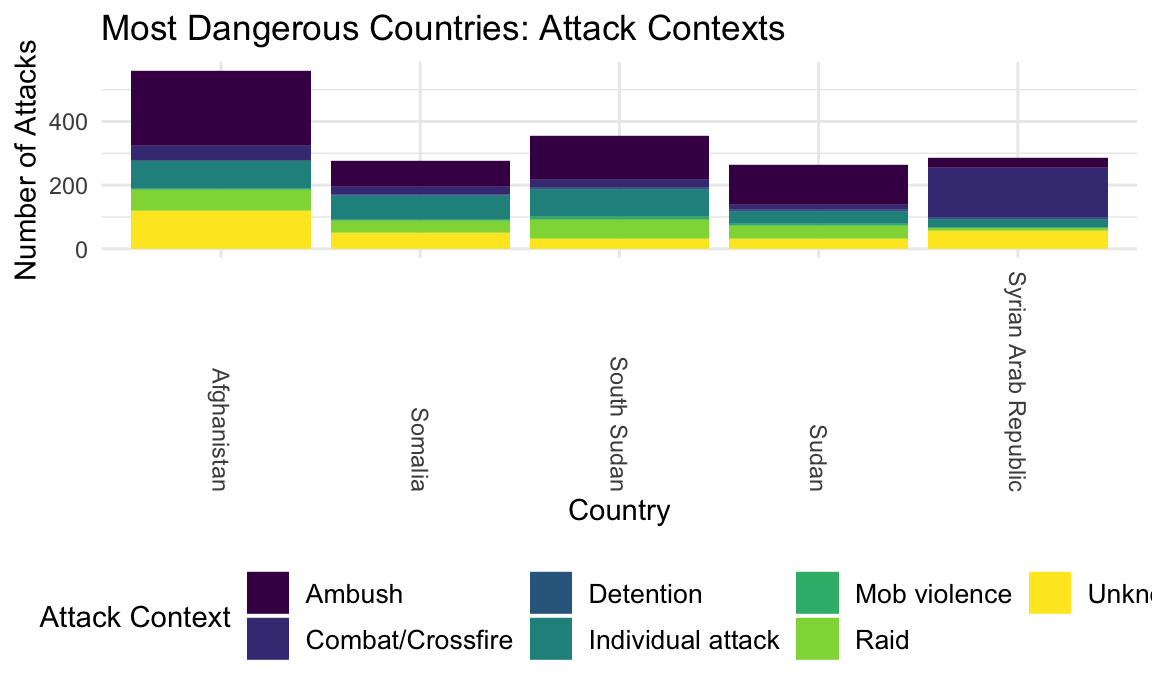
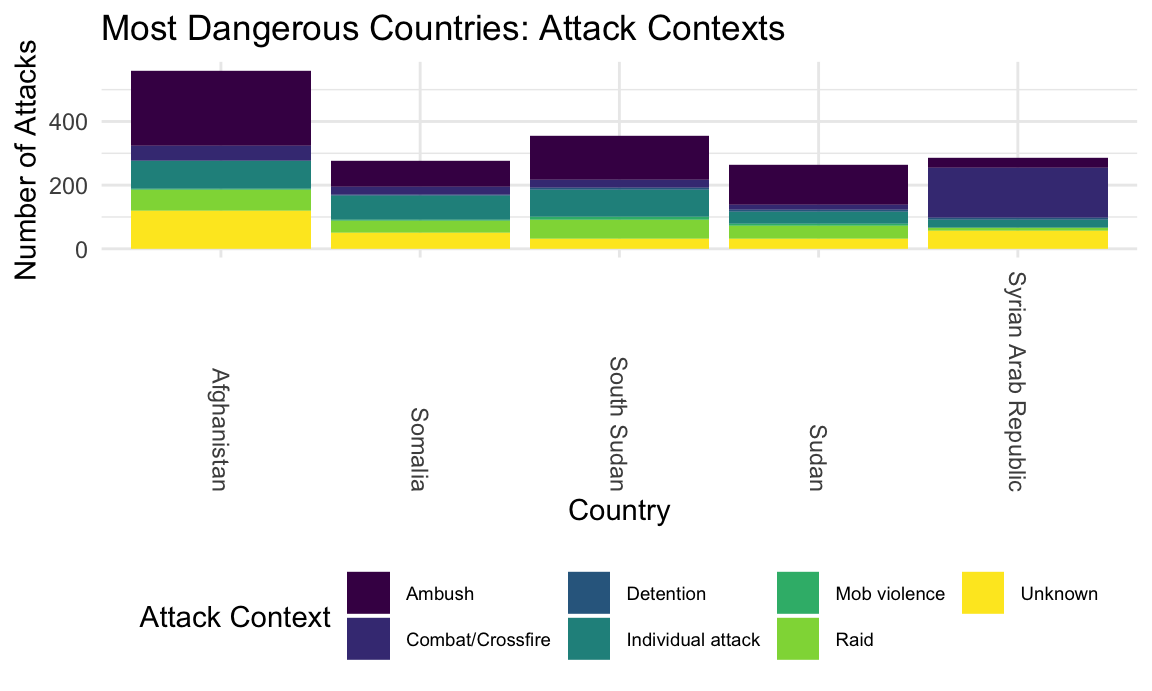
exploratory final?

Changed region(s): [[0.0312, 0.8205, 1.0, 0.9725]]

diff --git a/exploratory_analyses.html b/exploratory_analyses.html
@@ -422,8 +422,8 @@ aidworker_df =
           type = &quot;scatter&quot;, mode = &quot;markers&quot;)
   
 layout(plot_1, title = &quot;Aid Worker Attacks Over Time&quot;, xaxis = list(title = &quot;Year&quot;), yaxis = list(title = &quot;Number of Attack Incidents&quot;))</code></pre>
-<div id="htmlwidget-26f0fbd8093a4649b8cf" style="width:90%;height:345.6px;" class="plotly html-widget"></div>
-<script type="application/json" data-for="htmlwidget-26f0fbd8093a4649b8cf">{"x":{"visdat":{"56bd28e618f8":["function () ","plotlyVisDat"]},"cur_data":"56bd28e618f8","attrs":{"56bd28e618f8":{"x":{},"y":{},"text":{},"mode":"markers","alpha_stroke":1,"sizes":[10,100],"spans":[1,20],"type":"scatter"}},"layout":{"margin":{"b":40,"l":60,"t":25,"r":10},"title":"Aid Worker Attacks Over Time","xaxis":{"domain":[0,1],"automargin":true,"title":"Year"},"yaxis":{"domain":[0,1],"automargin":true,"title":"Number of Attack Incidents"},"hovermode":"closest","showlegend":false},"source":"A","config":{"showSendToCloud":false},"data":[{"x":[1997,1998,1999,2000,2001,2002,2003,2004,2005,2006,2007,2008,2009,2010,2011,2012,2013,2014,2015,2016,2017,2018,2019,2020],"y":[34,25,31,41,28,46,62,63,74,107,124,165,155,130,152,170,265,192,149,163,158,228,277,157],"text":["Total Victims: 73<br />International Staff: 29<br />National Staff: 44","Total Victims: 62<br />International Staff: 21<br />National Staff: 41","Total Victims: 66<br />International Staff: 24<br />National Staff: 42","Total Victims: 87<br />International Staff: 20<br />National Staff: 67","Total Victims: 86<br />International Staff: 26<br />National Staff: 60","Total Victims: 85<br />International Staff: 17<br />National Staff: 68","Total Victims: 142<br />International Staff: 25<br />National Staff: 117","Total Victims: 125<br />International Staff: 24<br />National Staff: 101","Total Victims: 172<br />International Staff: 14<br />National Staff: 158","Total Victims: 240<br />International Staff: 26<br />National Staff: 214","Total Victims: 221<br />International Staff: 35<br />National Staff: 186","Total Victims: 278<br />International Staff: 51<br />National Staff: 227","Total Victims: 295<br />International Staff: 74<br />National Staff: 221","Total Victims: 250<br />International Staff: 41<br />National Staff: 209","Total Victims: 311<br />International Staff: 29<br />National Staff: 282","Total Victims: 277<br />International Staff: 49<br />National Staff: 228","Total Victims: 475<br />International Staff: 60<br />National Staff: 415","Total Victims: 332<br />International Staff: 32<br />National Staff: 300","Total Victims: 289<br />International Staff: 29<br />National Staff: 260","Total Victims: 295<br />International Staff: 43<br />National Staff: 252","Total Victims: 313<br />International Staff: 28<br />National Staff: 285","Total Victims: 408<br />International Staff: 29<br />National Staff: 379","Total Victims: 483<br />International Staff: 27<br />National Staff: 456","Total Victims: 281<br />International Staff: 17<br />National Staff: 264"],"mode":"markers","type":"scatter","marker":{"color":"rgba(31,119,180,1)","line":{"color":"rgba(31,119,180,1)"}},"error_y":{"color":"rgba(31,119,180,1)"},"error_x":{"color":"rgba(31,119,180,1)"},"line":{"color":"rgba(31,119,180,1)"},"xaxis":"x","yaxis":"y","frame":null}],"highlight":{"on":"plotly_click","persistent":false,"dynamic":false,"selectize":false,"opacityDim":0.2,"selected":{"opacity":1},"debounce":0},"shinyEvents":["plotly_hover","plotly_click","plotly_selected","plotly_relayout","plotly_brushed","plotly_brushing","plotly_clickannotation","plotly_doubleclick","plotly_deselect","plotly_afterplot","plotly_sunburstclick"],"base_url":"https://plot.ly"},"evals":[],"jsHooks":[]}</script>
+<div id="htmlwidget-3b888ebe7a2dbbaaacc7" style="width:90%;height:345.6px;" class="plotly html-widget"></div>
+<script type="application/json" data-for="htmlwidget-3b888ebe7a2dbbaaacc7">{"x":{"visdat":{"5d415790fb59":["function () ","plotlyVisDat"]},"cur_data":"5d415790fb59","attrs":{"5d415790fb59":{"x":{},"y":{},"text":{},"mode":"markers","alpha_stroke":1,"sizes":[10,100],"spans":[1,20],"type":"scatter"}},"layout":{"margin":{"b":40,"l":60,"t":25,"r":10},"title":"Aid Worker Attacks Over Time","xaxis":{"domain":[0,1],"automargin":true,"title":"Year"},"yaxis":{"domain":[0,1],"automargin":true,"title":"Number of Attack Incidents"},"hovermode":"closest","showlegend":false},"source":"A","config":{"showSendToCloud":false},"data":[{"x":[1997,1998,1999,2000,2001,2002,2003,2004,2005,2006,2007,2008,2009,2010,2011,2012,2013,2014,2015,2016,2017,2018,2019,2020],"y":[34,25,31,41,28,46,62,63,74,107,124,165,155,130,152,170,265,192,149,163,158,228,277,157],"text":["Total Victims: 73<br />International Staff: 29<br />National Staff: 44","Total Victims: 62<br />International Staff: 21<br />National Staff: 41","Total Victims: 66<br />International Staff: 24<br />National Staff: 42","Total Victims: 87<br />International Staff: 20<br />National Staff: 67","Total Victims: 86<br />International Staff: 26<br />National Staff: 60","Total Victims: 85<br />International Staff: 17<br />National Staff: 68","Total Victims: 142<br />International Staff: 25<br />National Staff: 117","Total Victims: 125<br />International Staff: 24<br />National Staff: 101","Total Victims: 172<br />International Staff: 14<br />National Staff: 158","Total Victims: 240<br />International Staff: 26<br />National Staff: 214","Total Victims: 221<br />International Staff: 35<br />National Staff: 186","Total Victims: 278<br />International Staff: 51<br />National Staff: 227","Total Victims: 295<br />International Staff: 74<br />National Staff: 221","Total Victims: 250<br />International Staff: 41<br />National Staff: 209","Total Victims: 311<br />International Staff: 29<br />National Staff: 282","Total Victims: 277<br />International Staff: 49<br />National Staff: 228","Total Victims: 475<br />International Staff: 60<br />National Staff: 415","Total Victims: 332<br />International Staff: 32<br />National Staff: 300","Total Victims: 289<br />International Staff: 29<br />National Staff: 260","Total Victims: 295<br />International Staff: 43<br />National Staff: 252","Total Victims: 313<br />International Staff: 28<br />National Staff: 285","Total Victims: 408<br />International Staff: 29<br />National Staff: 379","Total Victims: 483<br />International Staff: 27<br />National Staff: 456","Total Victims: 281<br />International Staff: 17<br />National Staff: 264"],"mode":"markers","type":"scatter","marker":{"color":"rgba(31,119,180,1)","line":{"color":"rgba(31,119,180,1)"}},"error_y":{"color":"rgba(31,119,180,1)"},"error_x":{"color":"rgba(31,119,180,1)"},"line":{"color":"rgba(31,119,180,1)"},"xaxis":"x","yaxis":"y","frame":null}],"highlight":{"on":"plotly_click","persistent":false,"dynamic":false,"selectize":false,"opacityDim":0.2,"selected":{"opacity":1},"debounce":0},"shinyEvents":["plotly_hover","plotly_click","plotly_selected","plotly_relayout","plotly_brushed","plotly_brushing","plotly_clickannotation","plotly_doubleclick","plotly_deselect","plotly_afterplot","plotly_sunburstclick"],"base_url":"https://plot.ly"},"evals":[],"jsHooks":[]}</script>
 <p>This rise in aid worker attacks is disproportionately affecting national staff. The next two plots show this increased violence toward national staff over time. Notably, the percentage of total victims who are national staff is rising, while the proportion of international staff victims has decreased.</p>
 <pre class="r"><code>aidworker_df %&gt;% 
   drop_na(year) %&gt;% 
@@ -498,8 +498,8 @@ layout(plot_2,
        title = &quot;Top 50 Most Dangerous Countries for Aid Workers&quot;,
        xaxis = NULL,
        yaxis = list(title = &quot;Total Victims&quot;))</code></pre>
-<div id="htmlwidget-88a5562508eaab5c2e73" style="width:90%;height:345.6px;" class="plotly html-widget"></div>
-<script type="application/json" data-for="htmlwidget-88a5562508eaab5c2e73">{"x":{"visdat":{"56bd6905d542":["function () ","plotlyVisDat"]},"cur_data":"56bd6905d542","attrs":{"56bd6905d542":{"x":{},"y":{},"text":{},"mode":"markers","alpha_stroke":1,"sizes":[10,100],"spans":[1,20],"type":"scatter"}},"layout":{"margin":{"b":100,"l":25,"t":50,"r":50,"pad":0},"title":"Top 50 Most Dangerous Countries for Aid Workers","yaxis":{"domain":[0,1],"automargin":true,"title":"Total Victims"},"xaxis":{"domain":[0,1],"automargin":true,"title":"country","type":"category","categoryorder":"array","categoryarray":["Azerbaijan","Congo","Eritrea","Madagascar","Mauritania","Thailand","Papua New Guinea","El Salvador","Guatemala","Turkey","Mozambique","Cote D'Ivoire","Guinea","Mexico","Senegal","Tanzania","Kosovo","Algeria","Myanmar","Colombia","Sierra Leone","Malawi","Rwanda","Jordan","Liberia","Burkina Faso","Bangladesh","Philippines","Tajikistan","Indonesia","Niger","Libyan Arab Jamahiriya","Cameroon","Haiti","Burundi","Chechnya","Chad","Angola","Ethiopia","Uganda","Occupied Palestinian Territories","Kenya","Sri Lanka","Mali","Nigeria","Yemen","Iraq","Central African Republic","Pakistan","DR Congo","Syrian Arab Republic","Sudan","Somalia","South Sudan","Afghanistan"]},"hovermode":"closest","showlegend":false},"source":"A","config":{"showSendToCloud":false},"data":[{"x":["Afghanistan","Algeria","Angola","Azerbaijan","Bangladesh","Burkina Faso","Burundi","Cameroon","Central African Republic","Chad","Chechnya","Colombia","Congo","Cote D'Ivoire","DR Congo","El Salvador","Eritrea","Ethiopia","Guatemala","Guinea","Haiti","Indonesia","Iraq","Jordan","Kenya","Kosovo","Liberia","Libyan Arab Jamahiriya","Madagascar","Malawi","Mali","Mauritania","Mexico","Mozambique","Myanmar","Niger","Nigeria","Occupied Palestinian Territories","Pakistan","Papua New Guinea","Philippines","Rwanda","Senegal","Sierra Leone","Somalia","South Sudan","Sri Lanka","Sudan","Syrian Arab Republic","Tajikistan","Tanzania","Thailand","Turkey","Uganda","Yemen"],"y":[1259,12,53,5,19,16,44,36,165,49,44,13,5,9,327,7,5,53,7,9,39,30,146,15,74,10,15,35,5,14,106,5,9,8,12,34,132,62,248,6,23,14,9,13,515,581,89,487,469,24,9,5,7,56,140],"text":["Total Victims: 1259<br />Rank: 1<br />International Staff: 131<br />National Staff: 1128","Total Victims: 12<br />Rank: 37<br />International Staff: 5<br />National Staff: 7","Total Victims: 53<br />Rank: 17<br />International Staff: 3<br />National Staff: 50","Total Victims: 5<br />Rank: 50<br />International Staff: 0<br />National Staff: 5","Total Victims: 19<br />Rank: 29<br />International Staff: 4<br />National Staff: 15","Total Victims: 16<br />Rank: 30<br />International Staff: 2<br />National Staff: 14","Total Victims: 44<br />Rank: 20<br />International Staff: 13<br />National Staff: 31","Total Victims: 36<br />Rank: 23<br />International Staff: 5<br />National Staff: 31","Total Victims: 165<br />Rank: 8<br />International Staff: 16<br />National Staff: 149","Total Victims: 49<br />Rank: 19<br />International Staff: 12<br />National Staff: 37","Total Victims: 44<br />Rank: 20<br />International Staff: 24<br />National Staff: 20","Total Victims: 13<br />Rank: 35<br />International Staff: 4<br />National Staff: 9","Total Victims: 5<br />Rank: 50<br />International Staff: 1<br />National Staff: 4","Total Victims: 9<br />Rank: 40<br />International Staff: 1<br />National Staff: 8","Total Victims: 327<br />Rank: 6<br />International Staff: 26<br />National Staff: 301","Total Victims: 7<br />Rank: 46<br />International Staff: 1<br />National Staff: 6","Total Victims: 5<br />Rank: 50<br />International Staff: 2<br />National Staff: 3","Total Victims: 53<br />Rank: 17<br />International Staff: 14<br />National Staff: 39","Total Victims: 7<br />Rank: 46<br />International Staff: 1<br />National Staff: 6","Total Victims: 9<br />Rank: 40<br />International Staff: 2<br />National Staff: 7","Total Victims: 39<br />Rank: 22<br />International Staff: 12<br />National Staff: 27","Total Victims: 30<br />Rank: 26<br />International Staff: 7<br />National Staff: 23","Total Victims: 146<br />Rank: 9<br />International Staff: 34<br />National Staff: 112","Total Victims: 15<br />Rank: 31<br />International Staff: 2<br />National Staff: 13","Total Victims: 74<br />Rank: 14<br />International Staff: 23<br />National Staff: 51","Total Victims: 10<br />Rank: 39<br />International Staff: 1<br />National Staff: 9","Total Victims: 15<br />Rank: 31<br />International Staff: 8<br />National Staff: 7","Total Victims: 35<br />Rank: 24<br />International Staff: 23<br />National Staff: 12","Total Victims: 5<br />Rank: 50<br />International Staff: 1<br />National Staff: 4","Total Victims: 14<br />Rank: 33<br />International Staff: 0<br />National Staff: 14","Total Victims: 106<br />Rank: 12<br />International Staff: 17<br />National Staff: 89","Total Victims: 5<br />Rank: 50<br />International Staff: 4<br />National Staff: 1","Total Victims: 9<br />Rank: 40<br />International Staff: 0<br />National Staff: 9","Total Victims: 8<br />Rank: 45<br />International Staff: 0<br />National Staff: 8","Total Victims: 12<br />Rank: 37<br />International Staff: 0<br />National Staff: 12","Total Victims: 34<br />Rank: 25<br />International Staff: 11<br />National Staff: 23","Total Victims: 132<br />Rank: 11<br />International Staff: 5<br />National Staff: 127","Total Victims: 62<br />Rank: 15<br />International Staff: 3<br />National Staff: 59","Total Victims: 248<br />Rank: 7<br />International Staff: 21<br />National Staff: 227","Total Victims: 6<br />Rank: 49<br />International Staff: 1<br />National Staff: 5","Total Victims: 23<br />Rank: 28<br />International Staff: 3<br />National Staff: 20","Total Victims: 14<br />Rank: 33<br />International Staff: 5<br />National Staff: 9","Total Victims: 9<br />Rank: 40<br />International Staff: 2<br />National Staff: 7","Total Victims: 13<br />Rank: 35<br />International Staff: 3<br />National Staff: 10","Total Victims: 515<br />Rank: 3<br />International Staff: 90<br />National Staff: 425","Total Victims: 581<br />Rank: 2<br />International Staff: 65<br />National Staff: 516","Total Victims: 89<br />Rank: 13<br />International Staff: 2<br />National Staff: 87","Total Victims: 487<br />Rank: 4<br />International Staff: 54<br />National Staff: 433","Total Victims: 469<br />Rank: 5<br />International Staff: 29<br />National Staff: 440","Total Victims: 24<br />Rank: 27<br />International Staff: 11<br />National Staff: 13","Total Victims: 9<br />Rank: 40<br />International Staff: 2<br />National Staff: 7","Total Victims: 5<br />Rank: 50<br />International Staff: 0<br />National Staff: 5","Total Victims: 7<br />Rank: 46<br />International Staff: 1<br />National Staff: 6","Total Victims: 56<br />Rank: 16<br />International Staff: 6<br />National Staff: 50","Total Victims: 140<br />Rank: 10<br />International Staff: 35<br />National Staff: 105"],"mode":"markers","type":"scatter","marker":{"color":"rgba(31,119,180,1)","line":{"color":"rgba(31,119,180,1)"}},"error_y":{"color":"rgba(31,119,180,1)"},"error_x":{"color":"rgba(31,119,180,1)"},"line":{"color":"rgba(31,119,180,1)"},"xaxis":"x","yaxis":"y","frame":null}],"highlight":{"on":"plotly_click","persistent":false,"dynamic":false,"selectize":false,"opacityDim":0.2,"selected":{"opacity":1},"debounce":0},"shinyEvents":["plotly_hover","plotly_click","plotly_selected","plotly_relayout","plotly_brushed","plotly_brushing","plotly_clickannotation","plotly_doubleclick","plotly_deselect","plotly_afterplot","plotly_sunburstclick"],"base_url":"https://plot.ly"},"evals":[],"jsHooks":[]}</script>
+<div id="htmlwidget-3383d8ee8246689cbe3b" style="width:90%;height:345.6px;" class="plotly html-widget"></div>
+<script type="application/json" data-for="htmlwidget-3383d8ee8246689cbe3b">{"x":{"visdat":{"5d4131a7f5d4":["function () ","plotlyVisDat"]},"cur_data":"5d4131a7f5d4","attrs":{"5d4131a7f5d4":{"x":{},"y":{},"text":{},"mode":"markers","alpha_stroke":1,"sizes":[10,100],"spans":[1,20],"type":"scatter"}},"layout":{"margin":{"b":100,"l":25,"t":50,"r":50,"pad":0},"title":"Top 50 Most Dangerous Countries for Aid Workers","yaxis":{"domain":[0,1],"automargin":true,"title":"Total Victims"},"xaxis":{"domain":[0,1],"automargin":true,"title":"country","type":"category","categoryorder":"array","categoryarray":["Azerbaijan","Congo","Eritrea","Madagascar","Mauritania","Thailand","Papua New Guinea","El Salvador","Guatemala","Turkey","Mozambique","Cote D'Ivoire","Guinea","Mexico","Senegal","Tanzania","Kosovo","Algeria","Myanmar","Colombia","Sierra Leone","Malawi","Rwanda","Jordan","Liberia","Burkina Faso","Bangladesh","Philippines","Tajikistan","Indonesia","Niger","Libyan Arab Jamahiriya","Cameroon","Haiti","Burundi","Chechnya","Chad","Angola","Ethiopia","Uganda","Occupied Palestinian Territories","Kenya","Sri Lanka","Mali","Nigeria","Yemen","Iraq","Central African Republic","Pakistan","DR Congo","Syrian Arab Republic","Sudan","Somalia","South Sudan","Afghanistan"]},"hovermode":"closest","showlegend":false},"source":"A","config":{"showSendToCloud":false},"data":[{"x":["Afghanistan","Algeria","Angola","Azerbaijan","Bangladesh","Burkina Faso","Burundi","Cameroon","Central African Republic","Chad","Chechnya","Colombia","Congo","Cote D'Ivoire","DR Congo","El Salvador","Eritrea","Ethiopia","Guatemala","Guinea","Haiti","Indonesia","Iraq","Jordan","Kenya","Kosovo","Liberia","Libyan Arab Jamahiriya","Madagascar","Malawi","Mali","Mauritania","Mexico","Mozambique","Myanmar","Niger","Nigeria","Occupied Palestinian Territories","Pakistan","Papua New Guinea","Philippines","Rwanda","Senegal","Sierra Leone","Somalia","South Sudan","Sri Lanka","Sudan","Syrian Arab Republic","Tajikistan","Tanzania","Thailand","Turkey","Uganda","Yemen"],"y":[1259,12,53,5,19,16,44,36,165,49,44,13,5,9,327,7,5,53,7,9,39,30,146,15,74,10,15,35,5,14,106,5,9,8,12,34,132,62,248,6,23,14,9,13,515,581,89,487,469,24,9,5,7,56,140],"text":["Total Victims: 1259<br />Rank: 1<br />International Staff: 131<br />National Staff: 1128","Total Victims: 12<br />Rank: 37<br />International Staff: 5<br />National Staff: 7","Total Victims: 53<br />Rank: 17<br />International Staff: 3<br />National Staff: 50","Total Victims: 5<br />Rank: 50<br />International Staff: 0<br />National Staff: 5","Total Victims: 19<br />Rank: 29<br />International Staff: 4<br />National Staff: 15","Total Victims: 16<br />Rank: 30<br />International Staff: 2<br />National Staff: 14","Total Victims: 44<br />Rank: 20<br />International Staff: 13<br />National Staff: 31","Total Victims: 36<br />Rank: 23<br />International Staff: 5<br />National Staff: 31","Total Victims: 165<br />Rank: 8<br />International Staff: 16<br />National Staff: 149","Total Victims: 49<br />Rank: 19<br />International Staff: 12<br />National Staff: 37","Total Victims: 44<br />Rank: 20<br />International Staff: 24<br />National Staff: 20","Total Victims: 13<br />Rank: 35<br />International Staff: 4<br />National Staff: 9","Total Victims: 5<br />Rank: 50<br />International Staff: 1<br />National Staff: 4","Total Victims: 9<br />Rank: 40<br />International Staff: 1<br />National Staff: 8","Total Victims: 327<br />Rank: 6<br />International Staff: 26<br />National Staff: 301","Total Victims: 7<br />Rank: 46<br />International Staff: 1<br />National Staff: 6","Total Victims: 5<br />Rank: 50<br />International Staff: 2<br />National Staff: 3","Total Victims: 53<br />Rank: 17<br />International Staff: 14<br />National Staff: 39","Total Victims: 7<br />Rank: 46<br />International Staff: 1<br />National Staff: 6","Total Victims: 9<br />Rank: 40<br />International Staff: 2<br />National Staff: 7","Total Victims: 39<br />Rank: 22<br />International Staff: 12<br />National Staff: 27","Total Victims: 30<br />Rank: 26<br />International Staff: 7<br />National Staff: 23","Total Victims: 146<br />Rank: 9<br />International Staff: 34<br />National Staff: 112","Total Victims: 15<br />Rank: 31<br />International Staff: 2<br />National Staff: 13","Total Victims: 74<br />Rank: 14<br />International Staff: 23<br />National Staff: 51","Total Victims: 10<br />Rank: 39<br />International Staff: 1<br />National Staff: 9","Total Victims: 15<br />Rank: 31<br />International Staff: 8<br />National Staff: 7","Total Victims: 35<br />Rank: 24<br />International Staff: 23<br />National Staff: 12","Total Victims: 5<br />Rank: 50<br />International Staff: 1<br />National Staff: 4","Total Victims: 14<br />Rank: 33<br />International Staff: 0<br />National Staff: 14","Total Victims: 106<br />Rank: 12<br />International Staff: 17<br />National Staff: 89","Total Victims: 5<br />Rank: 50<br />International Staff: 4<br />National Staff: 1","Total Victims: 9<br />Rank: 40<br />International Staff: 0<br />National Staff: 9","Total Victims: 8<br />Rank: 45<br />International Staff: 0<br />National Staff: 8","Total Victims: 12<br />Rank: 37<br />International Staff: 0<br />National Staff: 12","Total Victims: 34<br />Rank: 25<br />International Staff: 11<br />National Staff: 23","Total Victims: 132<br />Rank: 11<br />International Staff: 5<br />National Staff: 127","Total Victims: 62<br />Rank: 15<br />International Staff: 3<br />National Staff: 59","Total Victims: 248<br />Rank: 7<br />International Staff: 21<br />National Staff: 227","Total Victims: 6<br />Rank: 49<br />International Staff: 1<br />National Staff: 5","Total Victims: 23<br />Rank: 28<br />International Staff: 3<br />National Staff: 20","Total Victims: 14<br />Rank: 33<br />International Staff: 5<br />National Staff: 9","Total Victims: 9<br />Rank: 40<br />International Staff: 2<br />National Staff: 7","Total Victims: 13<br />Rank: 35<br />International Staff: 3<br />National Staff: 10","Total Victims: 515<br />Rank: 3<br />International Staff: 90<br />National Staff: 425","Total Victims: 581<br />Rank: 2<br />International Staff: 65<br />National Staff: 516","Total Victims: 89<br />Rank: 13<br />International Staff: 2<br />National Staff: 87","Total Victims: 487<br />Rank: 4<br />International Staff: 54<br />National Staff: 433","Total Victims: 469<br />Rank: 5<br />International Staff: 29<br />National Staff: 440","Total Victims: 24<br />Rank: 27<br />International Staff: 11<br />National Staff: 13","Total Victims: 9<br />Rank: 40<br />International Staff: 2<br />National Staff: 7","Total Victims: 5<br />Rank: 50<br />International Staff: 0<br />National Staff: 5","Total Victims: 7<br />Rank: 46<br />International Staff: 1<br />National Staff: 6","Total Victims: 56<br />Rank: 16<br />International Staff: 6<br />National Staff: 50","Total Victims: 140<br />Rank: 10<br />International Staff: 35<br />National Staff: 105"],"mode":"markers","type":"scatter","marker":{"color":"rgba(31,119,180,1)","line":{"color":"rgba(31,119,180,1)"}},"error_y":{"color":"rgba(31,119,180,1)"},"error_x":{"color":"rgba(31,119,180,1)"},"line":{"color":"rgba(31,119,180,1)"},"xaxis":"x","yaxis":"y","frame":null}],"highlight":{"on":"plotly_click","persistent":false,"dynamic":false,"selectize":false,"opacityDim":0.2,"selected":{"opacity":1},"debounce":0},"shinyEvents":["plotly_hover","plotly_click","plotly_selected","plotly_relayout","plotly_brushed","plotly_brushing","plotly_clickannotation","plotly_doubleclick","plotly_deselect","plotly_afterplot","plotly_sunburstclick"],"base_url":"https://plot.ly"},"evals":[],"jsHooks":[]}</script>
 <p>The next two plots look at the top 10 countries for national staff victims and international staff victims: demonstrating the proportion of victims who were wounded, kidnapped, and killed.</p>
 <pre class="r"><code>danger_countries_df = 
   aidworker_df %&gt;%
@@ -773,7 +773,7 @@ aidworker_df %&gt;%
     name = &quot;Attack type&quot;,
     discrete = TRUE
   ) + 
-  theme(legend.text=element_text(size=9))</code></pre>
+  theme(legend.text=element_text(size=7))</code></pre>
 <p><img src="exploratory_analyses_files/figure-html/unnamed-chunk-11-1.png" width="90%" /></p>
 <p>The 5 most dangerous countries are shown below with type and contexts of attacks. Here, attack type refers to the means of violence, while attack context refers to the broader context of the incident.</p>
 <pre class="r"><code>danger_countries_df = 
@@ -796,7 +796,7 @@ aidworker_df %&gt;%
        x = &quot;Country&quot;,
        y = &quot;Number of Attacks&quot;) + 
   theme(axis.text.x = element_text(angle = -90, vjust = 0.5, hjust=1)) + 
-  theme(legend.text=element_text(size=10)) + 
+  theme(legend.text=element_text(size=7)) + 
   viridis::scale_fill_viridis(
     name = &quot;Attack type&quot;,
     discrete = TRUE
@@ -815,7 +815,7 @@ aidworker_df %&gt;%
        x = &quot;Country&quot;,
        y = &quot;Number of Attacks&quot;) + 
   theme(axis.text.x = element_text(angle = -90, vjust = 0.5, hjust=1)) +
-  theme(legend.text=element_text(size=10)) + 
+  theme(legend.text=element_text(size=7)) + 
   viridis::scale_fill_viridis(
     name = &quot;Attack Context&quot;,
     discrete = TRUE
@@ -823,6 +823,25 @@ aidworker_df %&gt;%
 <p><img src="exploratory_analyses_files/figure-html/unnamed-chunk-12-2.png" width="90%" /></p>
 <p>Afghanistan experienced the greatest proportion of attacks by kidnapping or IEDs, while bodily assault was most common in South Sudan, and explosives (including all bombing, shelling, and aerial bombardment) were most common in Syria.</p>
 <p>Ambushing, individual attacks, and raids were common in all danger countries. Aid workers in Syria experienced a large number of attacks by combat or crossfire: although the AWSD notes this does not exclude intentional targeting of humanitarian locations by combatants. Intentional targeting of health facilities in particular by Russian and Syrian airstrikes has been well documented. (via <a href="https://tcf.org/content/report/un-made-list-hospitals-syria-now-theyre-bombed/?agreed=1">The Century Foundation</a>)</p>
+<p>Finally, the interactive plot below depicts the gender gap in aid worker victims for the most dangerous countries. Men outnumber women for all attack types other than sexual assault. Bubble size corresponds to the degree of gap, with a bubble for each attack type in each country.</p>
+<pre class="r"><code>plot_gender = 
+  aidworker_df %&gt;%
+  filter(country %in% c(&quot;Afghanistan&quot;, &quot;Somalia&quot;, &quot;South Sudan&quot;, &quot;Sudan&quot;,
+                        &quot;Syrian Arab Republic&quot;)) %&gt;% 
+  group_by(country, attack_abr) %&gt;% 
+  summarize(total_women = sum(gender_female),
+            total_men = sum(gender_male),
+            gap = total_men - total_women,
+            tot_victims = sum(total_victims)) %&gt;%
+  mutate(text_label = 
+           str_c(&quot;Country: &quot;, country, &quot;\nAttack Type: &quot;, attack_abr)) %&gt;% 
+  plot_ly(
+    x = ~total_men, y = ~total_women, text = ~text_label, color = ~country,
+          type = &quot;scatter&quot;, mode = &quot;markers&quot;,  colors = &quot;viridis&quot;, marker = list(size = ~gap, opacity = 0.5))
+
+layout(plot_gender, title = &quot;Dangerous Country Gender Gap by Attack Type&quot;, xaxis = list(title = &quot;Number of Women Attacked&quot;), yaxis = list(title = &quot;Number of Men Attacked&quot;))</code></pre>
+<div id="htmlwidget-1b1ca7fac9b778a3b80e" style="width:90%;height:345.6px;" class="plotly html-widget"></div>
+<script type="application/json" data-for="htmlwidget-1b1ca7fac9b778a3b80e">{"x":{"visdat":{"5d416ca40fe0":["function () ","plotlyVisDat"]},"cur_data":"5d416ca40fe0","attrs":{"5d416ca40fe0":{"x":{},"y":{},"text":{},"mode":"markers","marker":{"size":{},"opacity":0.5},"color":{},"colors":"viridis","alpha_stroke":1,"sizes":[10,100],"spans":[1,20],"type":"scatter"}},"layout":{"margin":{"b":40,"l":60,"t":25,"r":10},"title":"Dangerous Country Gender Gap by Attack Type","xaxis":{"domain":[0,1],"automargin":true,"title":"Number of Women Attacked"},"yaxis":{"domain":[0,1],"automargin":true,"title":"Number of Men Attacked"},"hovermode":"closest","showlegend":true},"source":"A","config":{"showSendToCloud":false},"data":[{"x":[32,12,37,53,291,0,142,70],"y":[6,4,1,4,23,2,26,5],"text":["Country: Afghanistan<br />Attack Type: Bodily assault","Country: Afghanistan<br />Attack Type: Complex attack","Country: Afghanistan<br />Attack Type: Explosives","Country: Afghanistan<br />Attack Type: IED","Country: Afghanistan<br />Attack Type: Kidnapping","Country: Afghanistan<br />Attack Type: Rape/sexual assault","Country: Afghanistan<br />Attack Type: Shooting","Country: Afghanistan<br />Attack Type: Unknown"],"mode":"markers","marker":{"color":"rgba(68,1,84,1)","size":[26,8,36,49,268,-2,116,65],"opacity":0.5,"line":{"color":"rgba(68,1,84,1)"}},"type":"scatter","name":"Afghanistan","textfont":{"color":"rgba(68,1,84,1)"},"error_y":{"color":"rgba(68,1,84,1)"},"error_x":{"color":"rgba(68,1,84,1)"},"line":{"color":"rgba(68,1,84,1)"},"xaxis":"x","yaxis":"y","frame":null},{"x":[10,19,7,29,50,99,32],"y":[2,1,0,2,20,12,2],"text":["Country: Somalia<br />Attack Type: Bodily assault","Country: Somalia<br />Attack Type: Complex attack","Country: Somalia<br />Attack Type: Explosives","Country: Somalia<br />Attack Type: IED","Country: Somalia<br />Attack Type: Kidnapping","Country: Somalia<br />Attack Type: Shooting","Country: Somalia<br />Attack Type: Unknown"],"mode":"markers","marker":{"color":"rgba(59,82,139,1)","size":[8,18,7,27,30,87,30],"opacity":0.5,"line":{"color":"rgba(59,82,139,1)"}},"type":"scatter","name":"Somalia","textfont":{"color":"rgba(59,82,139,1)"},"error_y":{"color":"rgba(59,82,139,1)"},"error_x":{"color":"rgba(59,82,139,1)"},"line":{"color":"rgba(59,82,139,1)"},"xaxis":"x","yaxis":"y","frame":null},{"x":[107,4,71,9,164,22],"y":[14,0,9,13,4,2],"text":["Country: South Sudan<br />Attack Type: Bodily assault","Country: South Sudan<br />Attack Type: Explosives","Country: South Sudan<br />Attack Type: Kidnapping","Country: South Sudan<br />Attack Type: Rape/sexual assault","Country: South Sudan<br />Attack Type: Shooting","Country: South Sudan<br />Attack Type: Unknown"],"mode":"markers","marker":{"color":"rgba(33,144,141,1)","size":[93,4,62,-4,160,20],"opacity":0.5,"line":{"color":"rgba(33,144,141,1)"}},"type":"scatter","name":"South Sudan","textfont":{"color":"rgba(33,144,141,1)"},"error_y":{"color":"rgba(33,144,141,1)"},"error_x":{"color":"rgba(33,144,141,1)"},"line":{"color":"rgba(33,144,141,1)"},"xaxis":"x","yaxis":"y","frame":null},{"x":[46,0,4,49,1,56,34],"y":[6,0,0,8,2,2,0],"text":["Country: Sudan<br />Attack Type: Bodily assault","Country: Sudan<br />Attack Type: Complex attack","Country: Sudan<br />Attack Type: Explosives","Country: Sudan<br />Attack Type: Kidnapping","Country: Sudan<br />Attack Type: Rape/sexual assault","Country: Sudan<br />Attack Type: Shooting","Country: Sudan<br />Attack Type: Unknown"],"mode":"markers","marker":{"color":"rgba(93,200,99,1)","size":[40,0,4,41,-1,54,34],"opacity":0.5,"line":{"color":"rgba(93,200,99,1)"}},"type":"scatter","name":"Sudan","textfont":{"color":"rgba(93,200,99,1)"},"error_y":{"color":"rgba(93,200,99,1)"},"error_x":{"color":"rgba(93,200,99,1)"},"line":{"color":"rgba(93,200,99,1)"},"xaxis":"x","yaxis":"y","frame":null},{"x":[4,1,220,22,46,37,9],"y":[0,0,12,1,3,0,2],"text":["Country: Syrian Arab Republic<br />Attack Type: Bodily assault","Country: Syrian Arab Republic<br />Attack Type: Complex attack","Country: Syrian Arab Republic<br />Attack Type: Explosives","Country: Syrian Arab Republic<br />Attack Type: IED","Country: Syrian Arab Republic<br />Attack Type: Kidnapping","Country: Syrian Arab Republic<br />Attack Type: Shooting","Country: Syrian Arab Republic<br />Attack Type: Unknown"],"mode":"markers","marker":{"color":"rgba(253,231,37,1)","size":[4,1,208,21,43,37,7],"opacity":0.5,"line":{"color":"rgba(253,231,37,1)"}},"type":"scatter","name":"Syrian Arab Republic","textfont":{"color":"rgba(253,231,37,1)"},"error_y":{"color":"rgba(253,231,37,1)"},"error_x":{"color":"rgba(253,231,37,1)"},"line":{"color":"rgba(253,231,37,1)"},"xaxis":"x","yaxis":"y","frame":null}],"highlight":{"on":"plotly_click","persistent":false,"dynamic":false,"selectize":false,"opacityDim":0.2,"selected":{"opacity":1},"debounce":0},"shinyEvents":["plotly_hover","plotly_click","plotly_selected","plotly_relayout","plotly_brushed","plotly_brushing","plotly_clickannotation","plotly_doubleclick","plotly_deselect","plotly_afterplot","plotly_sunburstclick"],"base_url":"https://plot.ly"},"evals":[],"jsHooks":[]}</script>
 </div>
 
 
